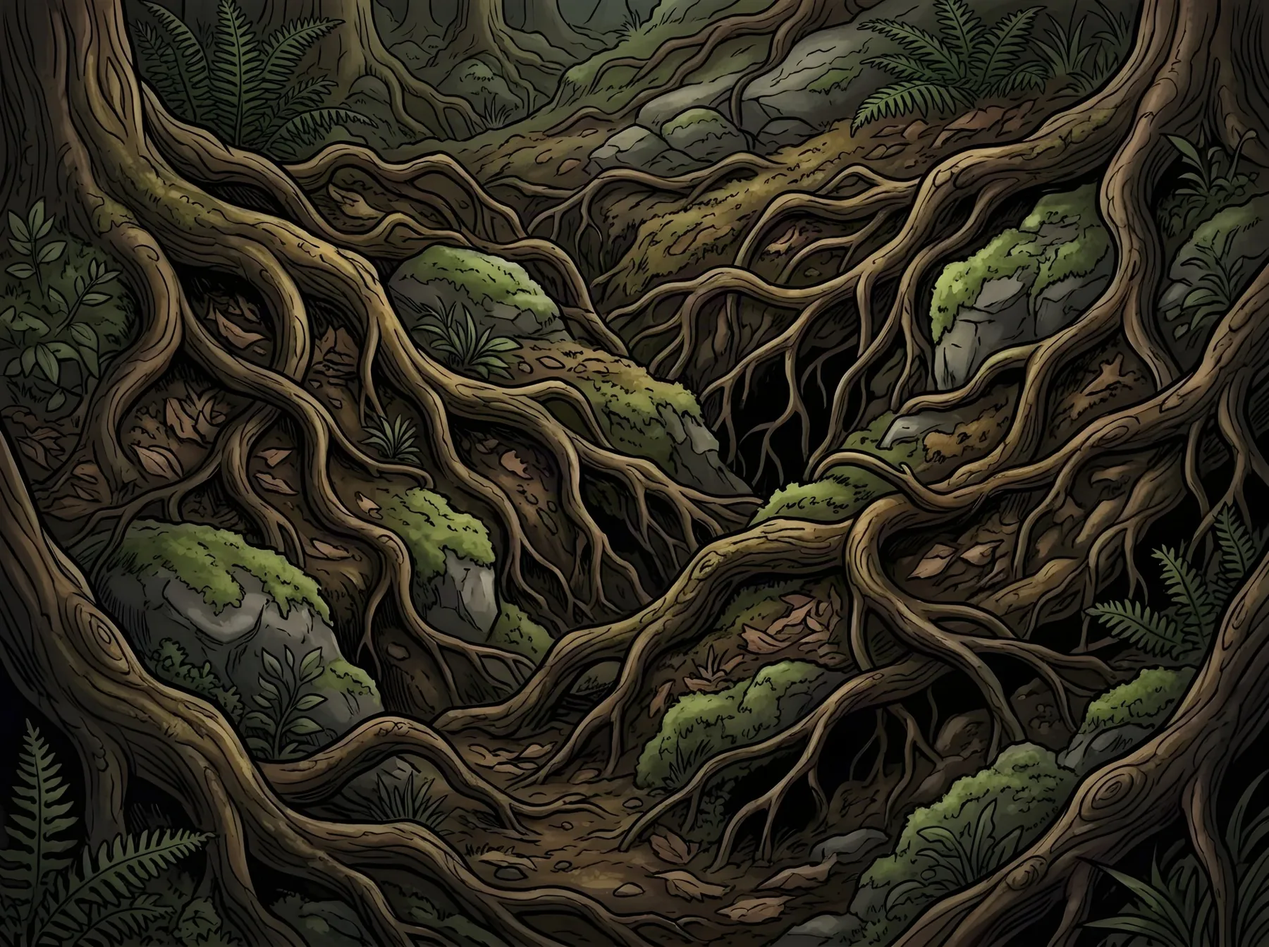
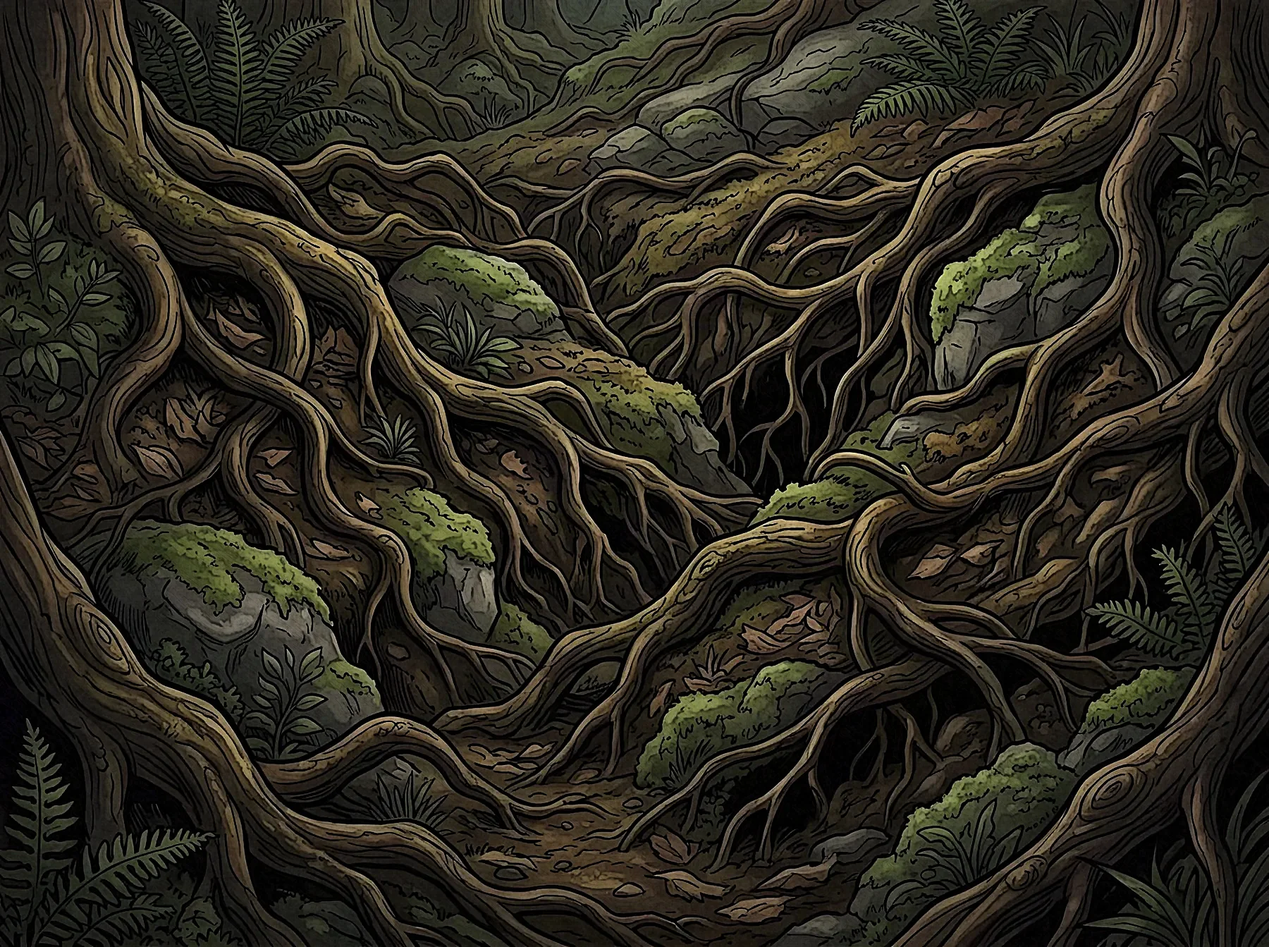
Fond « Derrière le voile » : grain et traits de crayon, comme l'image d'ouverture
Claude-Session: https://claude.ai/code/session_013GcFnatW4anFAXBN47GWwL

diff --git a/index.html b/index.html
@@ -1595,7 +1595,7 @@ h2,h3{background:linear-gradient(100deg,transparent 38%,#fff7d8 50%,transparent 
 
 /* ---------- Le coffre : la terre et les racines sous l'horizon doré ---------- */
 /*vault*/.vault{background:linear-gradient(180deg,rgba(12,9,20,0) 0,rgba(12,9,20,.55) 240px,#0c0914 520px)!important;position:relative;isolation:isolate;border-top:0;padding-top:clamp(300px,34vw,470px)}
-.vault::before{content:"";position:absolute;inset:0;z-index:-1;background:linear-gradient(180deg,rgba(12,9,20,.5),rgba(12,9,20,.8)),url(img/sol-racines.webp) center/cover no-repeat;-webkit-mask-image:linear-gradient(180deg,transparent 0,rgba(0,0,0,.25) 180px,rgba(0,0,0,.7) 380px,#000 560px);mask-image:linear-gradient(180deg,transparent 0,rgba(0,0,0,.25) 180px,rgba(0,0,0,.7) 380px,#000 560px)}
+.vault::before{content:"";position:absolute;inset:0;z-index:-1;background:linear-gradient(180deg,rgba(12,9,20,.5),rgba(12,9,20,.8)),url(img/sol-racines.webp?v=2) center/cover no-repeat;-webkit-mask-image:linear-gradient(180deg,transparent 0,rgba(0,0,0,.25) 180px,rgba(0,0,0,.7) 380px,#000 560px);mask-image:linear-gradient(180deg,transparent 0,rgba(0,0,0,.25) 180px,rgba(0,0,0,.7) 380px,#000 560px)}
 .book{padding-bottom:clamp(150px,18vw,260px)}
 .book .wrap{position:relative;z-index:1}
 footer{background:#0c0914;position:relative;z-index:1}
@@ -1742,7 +1742,7 @@ main{background:#0c0914}
 .vault-cta .pv-gift b{color:#2a1608}
 .vault-cta .pv-dl{background:linear-gradient(180deg,#3a2414,#241308)!important;color:#ffe6a8!important;border:1px solid rgba(255,226,160,.7)!important;box-shadow:0 10px 34px rgba(80,40,10,.45),0 0 28px rgba(255,214,140,.55)}
 .vault-cta .pv-dl:hover{background:#4a2c18!important;color:#fff3d0!important}
-.vault::before{-webkit-mask-image:none!important;mask-image:none!important;background:linear-gradient(180deg,#f3c076 0,#f3c076 80px,rgba(243,192,118,.9) 200px,rgba(243,192,118,.42) 340px,rgba(243,192,118,.1) 460px,rgba(243,192,118,0) 560px),linear-gradient(180deg,rgba(12,9,20,.5),rgba(12,9,20,.8)),url(img/sol-racines.webp) center/cover no-repeat!important}
+.vault::before{-webkit-mask-image:none!important;mask-image:none!important;background:linear-gradient(180deg,#f3c076 0,#f3c076 80px,rgba(243,192,118,.9) 200px,rgba(243,192,118,.42) 340px,rgba(243,192,118,.1) 460px,rgba(243,192,118,0) 560px),linear-gradient(180deg,rgba(12,9,20,.5),rgba(12,9,20,.8)),url(img/sol-racines.webp?v=2) center/cover no-repeat!important}
 @media(max-width:700px){.vault-cta{top:60px}}
 
 .vault .vorn{display:none!important}
